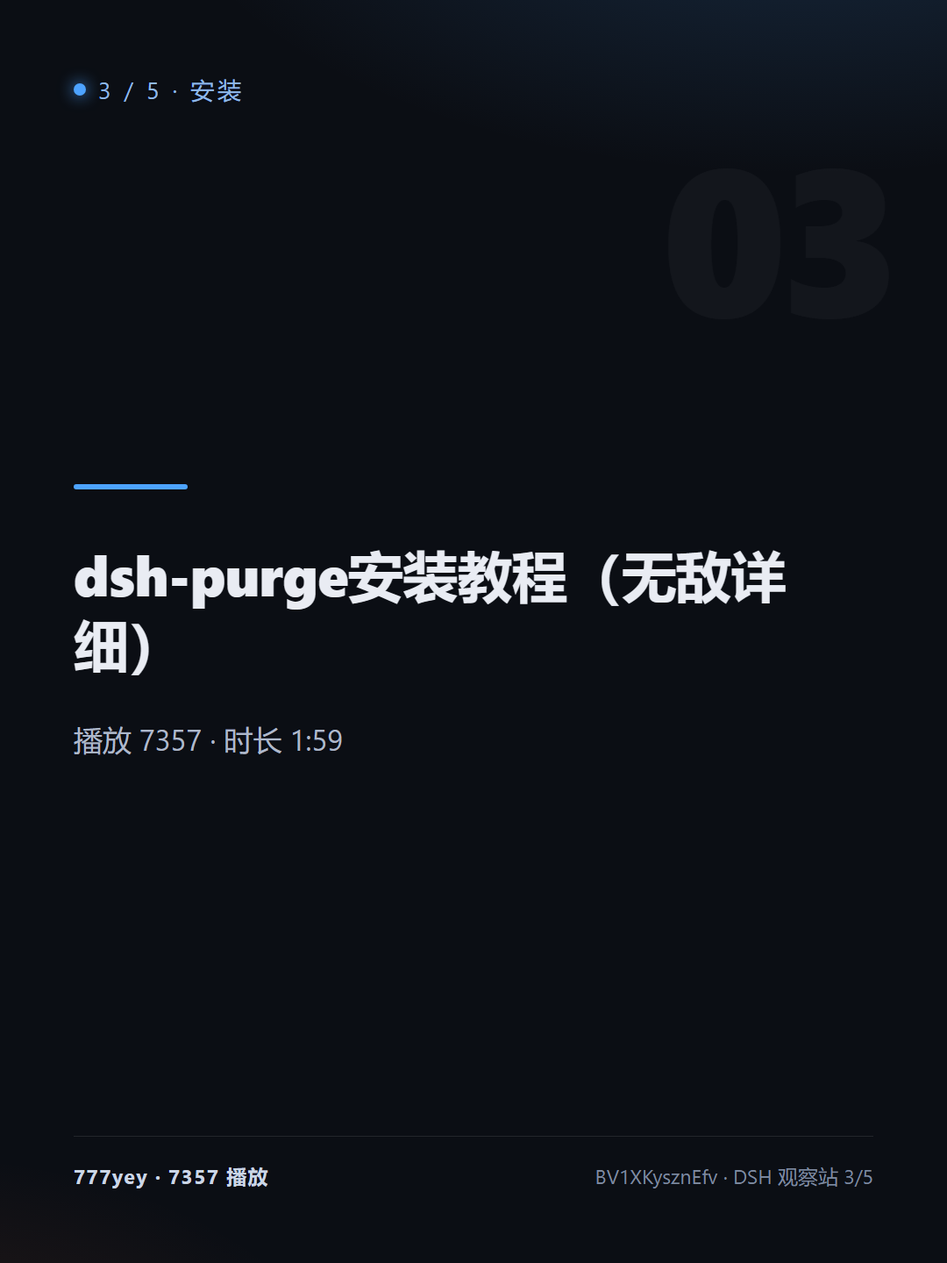
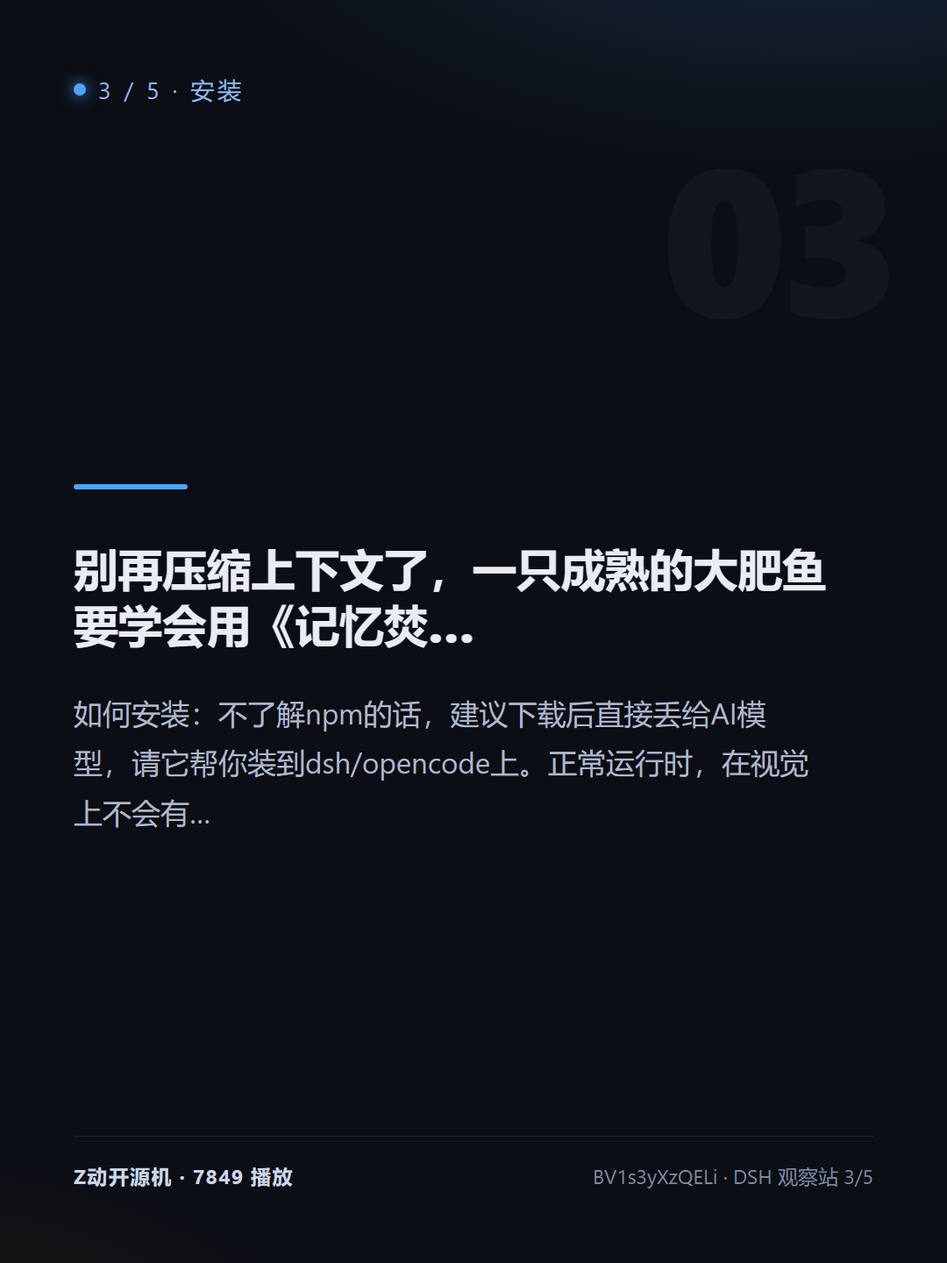
auto: content 2026-11-25

Changed region(s): [[0.0611, 0.4375, 0.8861, 0.6562], [0.0917, 0.9062, 0.3056, 0.9375], [0.6111, 0.9062, 0.7639, 0.9375]]

diff --git a/t/install.html b/t/install.html
@@ -45,16 +45,16 @@ table.bt td,table.bt th{border-bottom:1px solid var(--line);padding:7px;text-ali
 群聊：1080755910（一群 已满）1129285246（二群 已满）1132082279（三群 已满）1080323271（四群 已满）
 702451490（五群）498403015（六群）</div>
 </div><div class="item">
-  <div class="t"><a href="v/BV1XKysznEfv.html">dsh-purge安装教程（无敌详细）</a></div>
-  <div class="m">777yey · 7357 播放 · 1:59 · 2026-11-20</div>
-  
-</div><div class="item">
   <div class="t"><a href="v/BV1s3yXzQELi.html">别再压缩上下文了，一只成熟的大肥鱼要学会用《记忆焚化工》</a></div>
-  <div class="m">Z动开源机 · 7115 播放 · 7:0 · 2026-11-24</div>
+  <div class="m">Z动开源机 · 7849 播放 · 7:0 · 2026-11-24</div>
   <div class="d">仓库地址(欢迎star/fork)：
 https://github.com/zman406986/Agent-Memory-CREMATOR
 
 如何安装：不了解npm的话，建议下载后直接丢给AI模型，请它帮你装到dsh/opencode上。正常运行时，在视觉上不会有很明显的变化，只是每隔多轮对话，会在某轮对话后会停顿整理记忆。也可以人工输入/cremate发起一次记忆整理。</div>
+</div><div class="item">
+  <div class="t"><a href="v/BV1XKysznEfv.html">dsh-purge安装教程（无敌详细）</a></div>
+  <div class="m">777yey · 7357 播放 · 1:59 · 2026-11-20</div>
+  
 </div><div class="item">
   <div class="t"><a href="v/BV1YS1czoEJ4.html">50 分钟速通 Codex 保姆级教程（含 DeepSeek 接入，无需 ChatGPT 订阅）【附教程文档安装包】</a></div>
   <div class="m">林粒粒呀 · 5758 播放 · 57:7 · 2026-11-24</div>
@@ -101,7 +101,7 @@ gi</div>
 全程大白话提需求，不写一行代码，每一步都是真实录屏+实操！</div>
 </div><div class="item">
   <div class="t"><a href="v/BV1MhyHzqEpW.html">DeepSeek Harness 大肥鱼终极教程：新手进阶/插件生态/界面美化/手机端互通/全能鲸鱼娘【附完整文档】</a></div>
-  <div class="m">AI大模型学习指南 · 1273 播放 · 59:16 · 2026-11-23</div>
+  <div class="m">AI大模型学习指南 · 1296 播放 · 59:16 · 2026-11-23</div>
   <div class="d">官方桌面端浏览器+手机自动化～能力扩大10倍，适合要满配桌面端的同学～</div>
 </div><div class="item">
   <div class="t"><a href="v/BV1dyyLzYErT.html">DSH插件通用安装教程（保姆级）</a></div>
@@ -116,7 +116,7 @@ gi</div>
 欢迎大家的评论和建议！</div>
 </div><div class="item">
   <div class="t"><a href="v/BV1rZyDzrEr6.html">【Deepseekharness教程】AI总闷头写代码、废话多、烧Token？6个skills把老毛病一次治好，插件分享新手小白也能一次性学会</a></div>
-  <div class="m">Deepseek插件 · 1096 播放 · 40:21 · 2026-11-23</div>
+  <div class="m">Deepseek插件 · 1117 播放 · 40:21 · 2026-11-23</div>
   
 </div><div class="item">
   <div class="t"><a href="v/BV16v1czTELw.html">七个常用DSH插件分析报告</a></div>
@@ -143,6 +143,13 @@ DeepSeek Harness 安装步骤清单
 开发场景实操任务清单
 建议跟着视频逐步完成安装和首次运行，遇到错误时保留完整日志，更容易定位问题。</div>
 </div><div class="item">
+  <div class="t"><a href="v/BV17VyZzREi1.html">DeepSeek Harness新手教程来啦！300+专属插件无需付费！开源实战！直接带走！手把手带你搭建自己的harness！定制自己的桌宠！【附完整文档】</a></div>
+  <div class="m">Harness实战 · 650 播放 · 59:18 · 2026-11-24</div>
+  <div class="d">DeepSeek Harness超详细教程！
+大家可以速速收藏啦~
+耗时60天制作！感谢大家的三联
+未来还会出其他AI教程，大家可以关注一下~</div>
+</div><div class="item">
   <div class="t"><a href="v/BV1nRyxzqEiR.html">dsh-purge插件！UP自制压缩包-小白一键安装</a></div>
   <div class="m">辰涛涛ex · 646 播放 · 3:39 · 2026-11-20</div>
   <div class="d">一个本地 AI 客户端的改造实录：让它按我自己的规则说话、干活。
@@ -150,13 +157,6 @@ DeepSeek Harness 安装步骤清单
 全程本地运行，不联网、不收费，工具包开源共享。
 声明：无偿提供，不夹带盈利。写它只是希望 AGI 早点到来，
 别让技术把人越推越不自由。</div>
-</div><div class="item">
-  <div class="t"><a href="v/BV17VyZzREi1.html">DeepSeek Harness新手教程来啦！300+专属插件无需付费！开源实战！直接带走！手把手带你搭建自己的harness！定制自己的桌宠！【附完整文档】</a></div>
-  <div class="m">Harness实战 · 639 播放 · 59:18 · 2026-11-24</div>
-  <div class="d">DeepSeek Harness超详细教程！
-大家可以速速收藏啦~
-耗时60天制作！感谢大家的三联
-未来还会出其他AI教程，大家可以关注一下~</div>
 </div><div class="item">
   <div class="t"><a href="v/BV1q4yXz6Exf.html">Skill 到底是什么？从安装使用到自制，一次讲清楚</a></div>
   <div class="m">半成品本人 · 633 播放 · 11:37 · 2026-11-23</div>
@@ -177,18 +177,11 @@ DeepSeek Harness 安装步骤清单
   <div class="d">精彩内容持续更新中，欢迎关注学习！</div>
 </div><div class="item">
   <div class="t"><a href="v/BV13GyfzLECE.html">【最全DeepSeekHarness教程】从安装到亲手开发插件，全程实录从小白到高手，玩转DeepSeekHarness的保姆级教程</a></div>
-  <div class="m">Deepseek插件 · 326 播放 · 43:24 · 2026-11-24</div>
+  <div class="m">Deepseek插件 · 351 播放 · 43:24 · 2026-11-24</div>
   
 </div><div class="item">
-  <div class="t"><a href="v/BV11eyYzPECD.html">怕大肥鱼把你私聊和密钥抖进群里？我给 DSH 做了个隐私闸门插件，从安装到实战演示</a></div>
-  <div class="m">Destinhue · 264 播放 · 3:33 · 2026-11-21</div>
-  <div class="d">现在 B 站大家都在用 DSH 养自己的「大肥鱼」（DeepSeek Agent），还会把她同时接到私聊、QQ群、B站评论区和飞书里。
-但有个很现实的问题：你在私聊里发给大肥鱼的 API Key、本机路径、手机号、B站 Cookie 和私人秘密，随时可能被她一不小心抖进几百人的大群或陌生人私聊里……
-所以我开源了这个给 DSH 用的受众感知隐私插件：dsh-whale-privacy（v0.1.1 / 零外部依赖 / MIT 开源）！
-本期视频开门见山讲清问题，直接带你从安装配置一路走到出站拦截、加密隔离</div>
-</div><div class="item">
   <div class="t"><a href="v/BV1R31AzhEew.html">用 DeepSeek Harness 别再干等“思考中”了！我自制了一款实时可视化插件，完全开源</a></div>
-  <div class="m">一个冬天火锅 · 260 播放 · 0:48 · 2026-11-24</div>
+  <div class="m">一个冬天火锅 · 296 播放 · 0:48 · 2026-11-24</div>
   <div class="d">自制开源 DeepSeek Harness 插件 dsh-live-status-hud（v1.0.1），告别枯燥的“思考中”黑盒等待，让 AI 每一步思考、终端命令、文件写入与耗时一目了然。
 
 一键安装：
@@ -197,6 +190,17 @@ DeepSeek Harness 安装步骤清单
 
 GitHub 开源地址：htt</div>
 </div><div class="item">
+  <div class="t"><a href="v/BV11eyYzPECD.html">怕大肥鱼把你私聊和密钥抖进群里？我给 DSH 做了个隐私闸门插件，从安装到实战演示</a></div>
+  <div class="m">Destinhue · 264 播放 · 3:33 · 2026-11-21</div>
+  <div class="d">现在 B 站大家都在用 DSH 养自己的「大肥鱼」（DeepSeek Agent），还会把她同时接到私聊、QQ群、B站评论区和飞书里。
+但有个很现实的问题：你在私聊里发给大肥鱼的 API Key、本机路径、手机号、B站 Cookie 和私人秘密，随时可能被她一不小心抖进几百人的大群或陌生人私聊里……
+所以我开源了这个给 DSH 用的受众感知隐私插件：dsh-whale-privacy（v0.1.1 / 零外部依赖 / MIT 开源）！
+本期视频开门见山讲清问题，直接带你从安装配置一路走到出站拦截、加密隔离</div>
+</div><div class="item">
+  <div class="t"><a href="v/BV1eyyfzpEjd.html">【DeepSeek Harness保姆级教程】DeepSeek Harness详细教程！50分钟带你吃透DSH，怎么下载插件如何安装如何使用全搞定！</a></div>
+  <div class="m">Agent零基础入门 · 246 播放 · 358:31 · 2026-11-24</div>
+  <div class="d">【DeepSeek Harness保姆级教程】DeepSeek Harness详细教程！50分钟带你吃透DSH，怎么下载插件如何安装如何使用全搞定！</div>
+</div><div class="item">
   <div class="t"><a href="v/BV1cd1wzkE4z.html">让 DeepSeek Harness 直接操作 UE！蓝图、材质、项目知识库实战教程</a></div>
   <div class="m">NoveTre · 243 播放 · 12:20 · 2026-11-24</div>
   <div class="d">该视频介绍 DSH Unreal Bridge  插件的使用方法，演示编辑器绑定、候选资产添加、项目扫描，以及 Skill 和 ProjectKnowledge 知识库的使用，让 AI 结合实际工程参与开发。
@@ -204,10 +208,6 @@ GitHub 开源地址：htt</div>
 演示环境：Unreal Engine 5.8 + DeepSeek Harness。
 欢迎在评论区交流使用体验，也可以留言你希望 AI 帮忙完成的 UE 开发任务。
 仓库地址：ddd104/dsh-bridge-unreal</div>
-</div><div class="item">
-  <div class="t"><a href="v/BV1eyyfzpEjd.html">【DeepSeek Harness保姆级教程】DeepSeek Harness详细教程！50分钟带你吃透DSH，怎么下载插件如何安装如何使用全搞定！</a></div>
-  <div class="m">Agent零基础入门 · 240 播放 · 358:31 · 2026-11-24</div>
-  <div class="d">【DeepSeek Harness保姆级教程】DeepSeek Harness详细教程！50分钟带你吃透DSH，怎么下载插件如何安装如何使用全搞定！</div>
 </div><div class="item">
   <div class="t"><a href="v/BV1XeyzztEvP.html">【DeepSeekHarness】插件别乱装：3000个里挑出10个真刚需，小白0基础保姆级清单，必备插件一次讲清避坑经验，实用+好看插件整理</a></div>
   <div class="m">DeepSeekHarnes教学 · 235 播放 · 59:16 · 2026-11-25</div>
@@ -254,7 +254,7 @@ GitHub 开源地址：htt</div>
   
 </div><div class="item">
   <div class="t"><a href="v/BV1pRyDzCEtQ.html">【2026最新】DeepSeek Harness保姆级安装使用教程，从下载安装到插件上手一步到位！小白也能轻松学会，让你少走99%的弯路~</a></div>
-  <div class="m">aiagent教程 · 97 播放 · 23:52 · 2026-11-23</div>
+  <div class="m">aiagent教程 · 102 播放 · 23:52 · 2026-11-23</div>
   <div class="d">【2026最新】DeepSeek Harness保姆级安装使用教程，从下载安装到插件上手一步到位！小白也能轻松学会，让你少走99%的弯路~</div>
 </div><div class="item">
   <div class="t"><a href="v/BV1cR1FzvEBD.html">DSH 42个词扫完，结果只挤进2个</a></div>

diff --git a/d/2026-11-25.html b/d/2026-11-25.html
@@ -36,9 +36,9 @@ table.bt td,table.bt th{border-bottom:1px solid var(--line);padding:7px;text-ali
 <a class="back" href="../index.html">← 返回</a>
 <h2>2026-11-25：DSH 圈新增 5 条值得看的</h2>
 <div class="m" style="color:#9aa3b2;font-size:12px;margin-bottom:16px">2026-11-25 · beginner</div>
-<h3>图文卡片</h3><div class="gallery"><figure><a href="https://www.bilibili.com/video/BV1DSyVzpE9H" target="_blank" rel="noopener" title="去 B 站看原视频"><img src="../assets/2026-11-25/cards/card-01.png" alt="大肥鱼桌宠：一键导入Live2D模型，克隆语音！最…" loading="lazy"></a><div class="cap">大肥鱼桌宠：一键导入Live2D模型，克隆语音！最… · <a href="https://www.bilibili.com/video/BV1DSyVzpE9H" target="_blank" rel="noopener">原视频 →</a></div></figure><figure><a href="https://www.bilibili.com/video/BV1EmyHzdEyx" target="_blank" rel="noopener" title="去 B 站看原视频"><img src="../assets/2026-11-25/cards/card-02.png" alt="【鸣潮×DeepSeek】爱弥斯桌宠来了！｜90 …" loading="lazy"></a><div class="cap">【鸣潮×DeepSeek】爱弥斯桌宠来了！｜90 … · <a href="https://www.bilibili.com/video/BV1EmyHzdEyx" target="_blank" rel="noopener">原视频 →</a></div></figure><figure><a href="https://www.bilibili.com/video/BV1XKysznEfv" target="_blank" rel="noopener" title="去 B 站看原视频"><img src="../assets/2026-11-25/cards/card-03.png" alt="dsh-purge安装教程（无敌详细）" loading="lazy"></a><div class="cap">dsh-purge安装教程（无敌详细） · <a href="https://www.bilibili.com/video/BV1XKysznEfv" target="_blank" rel="noopener">原视频 →</a></div></figure><figure><a href="https://www.bilibili.com/video/BV1s3yXzQELi" target="_blank" rel="noopener" title="去 B 站看原视频"><img src="../assets/2026-11-25/cards/card-04.png" alt="别再压缩上下文了，一只成熟的大肥鱼要学会用《记忆焚…" loading="lazy"></a><div class="cap">别再压缩上下文了，一只成熟的大肥鱼要学会用《记忆焚… · <a href="https://www.bilibili.com/video/BV1s3yXzQELi" target="_blank" rel="noopener">原视频 →</a></div></figure><figure><img src="../assets/2026-11-25/cards/card-05.png" alt="想看完整清单？" loading="lazy"></figure></div>
+<h3>图文卡片</h3><div class="gallery"><figure><a href="https://www.bilibili.com/video/BV1DSyVzpE9H" target="_blank" rel="noopener" title="去 B 站看原视频"><img src="../assets/2026-11-25/cards/card-01.png" alt="大肥鱼桌宠：一键导入Live2D模型，克隆语音！最…" loading="lazy"></a><div class="cap">大肥鱼桌宠：一键导入Live2D模型，克隆语音！最… · <a href="https://www.bilibili.com/video/BV1DSyVzpE9H" target="_blank" rel="noopener">原视频 →</a></div></figure><figure><a href="https://www.bilibili.com/video/BV1EmyHzdEyx" target="_blank" rel="noopener" title="去 B 站看原视频"><img src="../assets/2026-11-25/cards/card-02.png" alt="【鸣潮×DeepSeek】爱弥斯桌宠来了！｜90 …" loading="lazy"></a><div class="cap">【鸣潮×DeepSeek】爱弥斯桌宠来了！｜90 … · <a href="https://www.bilibili.com/video/BV1EmyHzdEyx" target="_blank" rel="noopener">原视频 →</a></div></figure><figure><a href="https://www.bilibili.com/video/BV1s3yXzQELi" target="_blank" rel="noopener" title="去 B 站看原视频"><img src="../assets/2026-11-25/cards/card-03.png" alt="别再压缩上下文了，一只成熟的大肥鱼要学会用《记忆焚…" loading="lazy"></a><div class="cap">别再压缩上下文了，一只成熟的大肥鱼要学会用《记忆焚… · <a href="https://www.bilibili.com/video/BV1s3yXzQELi" target="_blank" rel="noopener">原视频 →</a></div></figure><figure><a href="https://www.bilibili.com/video/BV1XKysznEfv" target="_blank" rel="noopener" title="去 B 站看原视频"><img src="../assets/2026-11-25/cards/card-04.png" alt="dsh-purge安装教程（无敌详细）" loading="lazy"></a><div class="cap">dsh-purge安装教程（无敌详细） · <a href="https://www.bilibili.com/video/BV1XKysznEfv" target="_blank" rel="noopener">原视频 →</a></div></figure><figure><img src="../assets/2026-11-25/cards/card-05.png" alt="想看完整清单？" loading="lazy"></figure></div>
 <h3>数据图</h3><img class="chart" src="../assets/2026-11-25/charts/daily-added.svg" alt="daily-added.svg" loading="lazy"><img class="chart" src="../assets/2026-11-25/charts/keywords.svg" alt="keywords.svg" loading="lazy"><img class="chart" src="../assets/2026-11-25/charts/play-dist.svg" alt="play-dist.svg" loading="lazy">
 <h3>工具表</h3><ul><li><a href="../assets/2026-11-25/tools/errors.md">errors.md</a></li><li><a href="../assets/2026-11-25/tools/plugins.md">plugins.md</a></li></ul>
-<h3>生成状态</h3><table class="bt"><tr><th>作品</th><th>状态</th><th>耗时</th></tr><tr><td>图文卡片</td><td>✅</td><td>4373 ms</td></tr><tr><td>短视频脚本<span style="color:#6b7482">（仅存档）</span></td><td>✅</td><td>93 ms</td></tr><tr><td>播客稿<span style="color:#6b7482">（仅存档）</span></td><td>✅</td><td>89 ms</td></tr><tr><td>周报邮件<span style="color:#6b7482">（仅存档）</span></td><td>✅</td><td>91 ms</td></tr><tr><td>数据图</td><td>✅</td><td>94 ms</td></tr><tr><td>工具表</td><td>✅</td><td>86 ms</td></tr><tr><td>站点</td><td>✅</td><td>126 ms</td></tr></table>
+<h3>生成状态</h3><table class="bt"><tr><th>作品</th><th>状态</th><th>耗时</th></tr><tr><td>周报邮件<span style="color:#6b7482">（仅存档）</span></td><td>✅</td><td>103 ms</td></tr><tr><td>数据图</td><td>✅</td><td>114 ms</td></tr><tr><td>工具表</td><td>✅</td><td>112 ms</td></tr><tr><td>站点</td><td>✅</td><td>156 ms</td></tr></table>
 <div class="note">本站由自动化流程维护：每 30 分钟收录一次，内容来自 B 站公开信息，仅作索引与摘要。若链接失效或内容有误，请联系维护者。</div>
 </div></body></html>

diff --git a/index.html b/index.html
@@ -34,13 +34,13 @@ table.bt td,table.bt th{border-bottom:1px solid var(--line);padding:7px;text-ali
 @media(max-width:520px){.wrap{padding:18px 12px 40px}}</style></head><body><div class="wrap">
 <header><h1><a href="index.html" style="color:inherit">DSH 观察站</a></h1><p>自动收录 DeepSeek Harness 生态里的新插件、新玩法、新教程</p></header>
 
-<div class="stat"><span>收录 <b>90</b> 条</span><span>24h 新增 <b>90</b></span><span>速览 <b>1</b> 篇</span><span>最近更新 <b>2026/11/25 14:40:44</b></span></div>
+<div class="stat"><span>收录 <b>90</b> 条</span><span>24h 新增 <b>90</b></span><span>速览 <b>1</b> 篇</span><span>最近更新 <b>2026/11/25 15:09:42</b></span></div>
 <div class="chips"><a href="t/live.html">直播与弹幕</a><a href="t/install.html">安装与避坑</a><a href="t/plugin.html">插件与 Skills</a><a href="t/design.html">设计与审美</a><a href="t/memory.html">记忆与上下文</a><a href="t/agent.html">Agent 与自动化</a></div>
 <h2>今日作品（2026-11-25）</h2>
 <div class="works"><a class="wcover" href="d/2026-11-25.html"><img src="assets/2026-11-25/cards/cover.png" alt="今日封面" loading="lazy"></a>
   <div class="wmeta">
     <div class="wt">2026-11-25：DSH 圈新增 5 条值得看的</div>
-    <div class="wm">3 类作品已生成 · 图文卡片 / 数据图 / 工具表</div>
+    <div class="wm">2 类作品已生成 · 数据图 / 工具表</div>
     <a class="wlink" href="d/2026-11-25.html">打开今日作品页 →</a>
   </div>
 </div>
@@ -133,16 +133,16 @@ github地址：https://github.com/Aurora486/dsh-qqbot</div>
 
 自带三套画师表情预设：鸭牌（春也Huruya）、雾雪（雾雪）、Stephen（Stephen樽，默认），每套 16 种交互各配一张不同的表情，一键切换；呜哇小站的其他爱弥斯表情包下载后也能直接</div>
 </div><div class="item">
-  <div class="t"><a href="v/BV1XKysznEfv.html">dsh-purge安装教程（无敌详细）</a></div>
-  <div class="m">777yey · 7357 播放 · 1:59 · 2026-11-20</div>
-  
-</div><div class="item">
   <div class="t"><a href="v/BV1s3yXzQELi.html">别再压缩上下文了，一只成熟的大肥鱼要学会用《记忆焚化工》</a></div>
-  <div class="m">Z动开源机 · 7115 播放 · 7:0 · 2026-11-24</div>
+  <div class="m">Z动开源机 · 7849 播放 · 7:0 · 2026-11-24</div>
   <div class="d">仓库地址(欢迎star/fork)：
 https://github.com/zman406986/Agent-Memory-CREMATOR
 
 如何安装：不了解npm的话，建议下载后直接丢给AI模型，请它帮你装到dsh/opencode上。正常运行时，在视觉上不会有很明显的变化，只是每隔多轮对话，会在某轮对话后会停顿整理记忆。也可以人工输入/cremate发起一次记忆整理。</div>
+</div><div class="item">
+  <div class="t"><a href="v/BV1XKysznEfv.html">dsh-purge安装教程（无敌详细）</a></div>
+  <div class="m">777yey · 7357 播放 · 1:59 · 2026-11-20</div>
+  
 </div><div class="item">
   <div class="t"><a href="v/BV1YS1czoEJ4.html">50 分钟速通 Codex 保姆级教程（含 DeepSeek 接入，无需 ChatGPT 订阅）【附教程文档安装包】</a></div>
   <div class="m">林粒粒呀 · 5758 播放 · 57:7 · 2026-11-24</div>
@@ -253,11 +253,11 @@ L</div>
 全量软件及技术资料尽在https://t.zsxq.com/QkBVL</div>
 </div><div class="item">
   <div class="t"><a href="v/BV1MhyHzqEpW.html">DeepSeek Harness 大肥鱼终极教程：新手进阶/插件生态/界面美化/手机端互通/全能鲸鱼娘【附完整文档】</a></div>
-  <div class="m">AI大模型学习指南 · 1273 播放 · 59:16 · 2026-11-23</div>
+  <div class="m">AI大模型学习指南 · 1296 播放 · 59:16 · 2026-11-23</div>
   <div class="d">官方桌面端浏览器+手机自动化～能力扩大10倍，适合要满配桌面端的同学～</div>
 </div><div class="item">
   <div class="t"><a href="v/BV1Vwsh6zE8B.html">WorkBuddy额度可丝滑用到其他智能体里</a></div>
-  <div class="m">跟着叶秋学AI · 1211 播放 · 1:45 · 2026-11-19</div>
+  <div class="m">跟着叶秋学AI · 1216 播放 · 1:45 · 2026-11-19</div>
   <div class="d">DSH等其他智能体框架也能用WorkBuddy的积分，草履虫级教程</div>
 </div><div class="item">
   <div class="t"><a href="v/BV1dyyLzYErT.html">DSH插件通用安装教程（保姆级）</a></div>
@@ -395,7 +395,7 @@ github：https://github.com/7ygys/dsh-fishchat
 这一期视频讲清楚全部问题。</div>
 </div><div class="item">
   <div class="t"><a href="v/BV1Vwsh6zE8B.html">WorkBuddy额度可丝滑用到其他智能体里</a></div>
-  <div class="m">跟着叶秋学AI · 1211 播放 · 1:45 · 2026-11-19</div>
+  <div class="m">跟着叶秋学AI · 1216 播放 · 1:45 · 2026-11-19</div>
   <div class="d">DSH等其他智能体框架也能用WorkBuddy的积分，草履虫级教程</div>
 </div><div class="item">
   <div class="t"><a href="v/BV1VsHe66Enp.html">DSH直接零TOKEN使用</a></div>
@@ -421,7 +421,7 @@ github：https://github.com/7ygys/dsh-fishchat
 全量软件及技术资料尽在https://t.zsxq.com/QkBVL</div>
 </div><div class="item">
   <div class="t"><a href="v/BV1XL1AzZEpx.html">【deepseek harness 自制插件】悬浮小帮手 一个可以让你在dsh里用上web版deepseek的插件</a></div>
-  <div class="m">苛虎丶 · 44 播放 · 1:23 · 2026-11-25</div>
+  <div class="m">苛虎丶 · 71 播放 · 1:23 · 2026-11-25</div>
   <div class="d">X 自制了一个插件
 □ 视频配音gemini 3.8 flash lite
 ⚪ 似乎可以和官方新出的导入打配合，但做出来插件的时候那个功能还没出

diff --git a/assets/2026-11-25/charts/report.html b/assets/2026-11-25/charts/report.html
@@ -10,5 +10,5 @@ th{color:#9aa3b2;font-weight:600}.n{color:#7f8aa0;font-size:12px}</style></head>
 <h2>采集关键词</h2><img src="keywords.svg" alt="keywords">
 <h2>当前热门（按播放）</h2>
 <table><tr><th>标题</th><th>UP</th><th>播放</th></tr>
-<tr><td>大肥鱼桌宠：一键导入Live2D模型，克隆语音！最新教程 安装和扩展介绍【B站AI创造公开赛】</td><td>PalAILab</td><td>2.9万</td></tr><tr><td>【鸣潮×DeepSeek】爱弥斯桌宠来了！｜90 条语音、三套画风预设的免费开源桌宠</td><td>豆芽doya16</td><td>1.5万</td></tr><tr><td>dsh-purge安装教程（无敌详细）</td><td>777yey</td><td>7357</td></tr><tr><td>别再压缩上下文了，一只成熟的大肥鱼要学会用《记忆焚化工》</td><td>Z动开源机</td><td>7115</td></tr><tr><td>50 分钟速通 Codex 保姆级教程（含 DeepSeek 接入，无需 ChatGPT 订阅）【附教程文档安装包】</td><td>林粒粒呀</td><td>5534</td></tr><tr><td>DSH使用6.2Astra才是最优解？Deepseek VS GPT</td><td>小小_072</td><td>4049</td></tr><tr><td>雷霆大思考？进度不清晰？一个插件解决DSH中90%的痛点</td><td>仲夏夜未央</td><td>3781</td></tr><tr><td>【dsh-bili-chat-whale】加入大肥鱼！让deepseek自己去直播间发弹幕！</td><td>一只漂流的大肥鱼</td><td>3310</td></tr><tr><td>给大肥鱼装上电击插件，结果她反手把我电了！？【B站AI创造公开赛】</td><td>neko的哦鲸鲸</td><td>2698</td></tr><tr><td>[DSH插件] 完全面向开发场景设计的记忆插件</td><td>Dark萎割</td><td>2696</td></tr><tr><td>DroidDeck0.7.1，内置liunx桌面、DSH、workbuddy及中文输入补丁版</td><td>老实人留一手</td><td>2582</td></tr><tr><td>一句话装好DSH直播弹幕插件(保姆级教程)：收弹幕、转文字、还替你挑高光</td><td>年银滔</td><td>2534</td></tr>
+<tr><td>大肥鱼桌宠：一键导入Live2D模型，克隆语音！最新教程 安装和扩展介绍【B站AI创造公开赛】</td><td>PalAILab</td><td>2.9万</td></tr><tr><td>【鸣潮×DeepSeek】爱弥斯桌宠来了！｜90 条语音、三套画风预设的免费开源桌宠</td><td>豆芽doya16</td><td>1.5万</td></tr><tr><td>别再压缩上下文了，一只成熟的大肥鱼要学会用《记忆焚化工》</td><td>Z动开源机</td><td>7849</td></tr><tr><td>dsh-purge安装教程（无敌详细）</td><td>777yey</td><td>7357</td></tr><tr><td>50 分钟速通 Codex 保姆级教程（含 DeepSeek 接入，无需 ChatGPT 订阅）【附教程文档安装包】</td><td>林粒粒呀</td><td>5758</td></tr><tr><td>DSH使用6.2Astra才是最优解？Deepseek VS GPT</td><td>小小_072</td><td>4049</td></tr><tr><td>雷霆大思考？进度不清晰？一个插件解决DSH中90%的痛点</td><td>仲夏夜未央</td><td>3862</td></tr><tr><td>【dsh-bili-chat-whale】加入大肥鱼！让deepseek自己去直播间发弹幕！</td><td>一只漂流的大肥鱼</td><td>3310</td></tr><tr><td>给大肥鱼装上电击插件，结果她反手把我电了！？【B站AI创造公开赛】</td><td>neko的哦鲸鲸</td><td>2698</td></tr><tr><td>[DSH插件] 完全面向开发场景设计的记忆插件</td><td>Dark萎割</td><td>2696</td></tr><tr><td>DroidDeck0.7.1，内置liunx桌面、DSH、workbuddy及中文输入补丁版</td><td>老实人留一手</td><td>2582</td></tr><tr><td>一句话装好DSH直播弹幕插件(保姆级教程)：收弹幕、转文字、还替你挑高光</td><td>年银滔</td><td>2534</td></tr>
 </table></div></body></html>

diff --git a/t/agent.html b/t/agent.html
@@ -45,7 +45,7 @@ table.bt td,table.bt th{border-bottom:1px solid var(--line);padding:7px;text-ali
 反馈交流群：957998659</div>
 </div><div class="item">
   <div class="t"><a href="v/BV1MhyHzqEpW.html">DeepSeek Harness 大肥鱼终极教程：新手进阶/插件生态/界面美化/手机端互通/全能鲸鱼娘【附完整文档】</a></div>
-  <div class="m">AI大模型学习指南 · 1273 播放 · 59:16 · 2026-11-23</div>
+  <div class="m">AI大模型学习指南 · 1296 播放 · 59:16 · 2026-11-23</div>
   <div class="d">官方桌面端浏览器+手机自动化～能力扩大10倍，适合要满配桌面端的同学～</div>
 </div><div class="item">
   <div class="t"><a href="v/BV1Ggyfz2EGk.html">【AI测试】2026最新DSH自动化测试+skills项目实战教程，从入门到搭建测试平台实战全流程详解，建议收藏让你少走99%弯路！</a></div>
@@ -53,7 +53,7 @@ table.bt td,table.bt th{border-bottom:1px solid var(--line);padding:7px;text-ali
   
 </div><div class="item">
   <div class="t"><a href="v/BV1DGyfz5ECZ.html">全网首发 DeepSeek Harness 测试插件，AI驱动测试的最佳方案</a></div>
-  <div class="m">木森AI驱动测试实战 · 404 播放 · 162:38 · 2026-11-24</div>
+  <div class="m">木森AI驱动测试实战 · 465 播放 · 162:38 · 2026-11-24</div>
   <div class="d">从24年使用AI辅助写自动化脚本，到25年的手搓自动化测试的Agent,搭建AI智能测试平台，到26年的DeepSeek Harness 测试插件落地。经过三年时间的迭代，探索出来这套最佳的方案。
 老学员可以直接找我免费拿插件源码。我也整理了 128 篇 AI 测试学习资料，需要的朋友留言“666”。</div>
 </div><div class="item">

diff --git a/t/design.html b/t/design.html
@@ -38,7 +38,7 @@ table.bt td,table.bt th{border-bottom:1px solid var(--line);padding:7px;text-ali
 <div class="m" style="color:#9aa3b2;font-size:12px;margin-bottom:14px">共 8 条 · 按播放排序</div>
 <div class="item">
   <div class="t"><a href="v/BV1s3yXzQELi.html">别再压缩上下文了，一只成熟的大肥鱼要学会用《记忆焚化工》</a></div>
-  <div class="m">Z动开源机 · 7115 播放 · 7:0 · 2026-11-24</div>
+  <div class="m">Z动开源机 · 7849 播放 · 7:0 · 2026-11-24</div>
   <div class="d">仓库地址(欢迎star/fork)：
 https://github.com/zman406986/Agent-Memory-CREMATOR
 
@@ -66,7 +66,7 @@ L</div>
 点击→ https://www.bilibili.com/opus/997693552554147844获取超多资料大礼包</div>
 </div><div class="item">
   <div class="t"><a href="v/BV19RyQzaErR.html">～您的D老师特别关心已启动</a></div>
-  <div class="m">芒攸大夫 · 148 播放 · 0:27 · 2026-11-23</div>
+  <div class="m">芒攸大夫 · 149 播放 · 0:27 · 2026-11-23</div>
   <div class="d">快来设计你的deepseek harness启动动画和壁纸吧！</div>
 </div><div class="item">
   <div class="t"><a href="v/BV1NmWj6UEAb.html">让你的大肥鱼dsh成为有品味的AI设计师</a></div>

diff --git a/v/BV1eyyfzpEjd.html b/v/BV1eyyfzpEjd.html
@@ -37,7 +37,7 @@ table.bt td,table.bt th{border-bottom:1px solid var(--line);padding:7px;text-ali
 <a class="back" href="../index.html">← 返回</a>
 <div class="item">
   <div class="t">【DeepSeek Harness保姆级教程】DeepSeek Harness详细教程！50分钟带你吃透DSH，怎么下载插件如何安装如何使用全搞定！</div>
-  <div class="m">Agent零基础入门 · 240 播放 · 358:31 · 2026-11-24</div>
+  <div class="m">Agent零基础入门 · 246 播放 · 358:31 · 2026-11-24</div>
   <div class="d" style="-webkit-line-clamp:unset">【DeepSeek Harness保姆级教程】DeepSeek Harness详细教程！50分钟带你吃透DSH，怎么下载插件如何安装如何使用全搞定！</div>
   <div style="margin-top:10px"><span class="tag">DeepSeekharness</span><span class="tag">人工智能</span><span class="tag">编程</span><span class="tag">计算机</span><span class="tag">DeepSeek</span><span class="tag">ai大模型</span></div>
   <div style="margin-top:12px"><a href="https://www.bilibili.com/video/BV1eyyfzpEjd" target="_blank" rel="noopener">去 B 站看原视频 →</a></div>

diff --git a/v/BV1DGyfz5ECZ.html b/v/BV1DGyfz5ECZ.html
@@ -37,7 +37,7 @@ table.bt td,table.bt th{border-bottom:1px solid var(--line);padding:7px;text-ali
 <a class="back" href="../index.html">← 返回</a>
 <div class="item">
   <div class="t">全网首发 DeepSeek Harness 测试插件，AI驱动测试的最佳方案</div>
-  <div class="m">木森AI驱动测试实战 · 404 播放 · 162:38 · 2026-11-24</div>
+  <div class="m">木森AI驱动测试实战 · 465 播放 · 162:38 · 2026-11-24</div>
   <div class="d" style="-webkit-line-clamp:unset">从24年使用AI辅助写自动化脚本，到25年的手搓自动化测试的Agent,搭建AI智能测试平台，到26年的DeepSeek Harness 测试插件落地。经过三年时间的迭代，探索出来这套最佳的方案。
 老学员可以直接找我免费拿插件源码。我也整理了 128 篇 AI 测试学习资料，需要的朋友留言“666”。</div>
   <div style="margin-top:10px"><span class="tag">AI接口自动化测试</span><span class="tag">测试平台开发</span><span class="tag">web自动化测试</span><span class="tag">AI测试</span><span class="tag">软件测试</span></div>

diff --git a/v/BV1pRyDzCEtQ.html b/v/BV1pRyDzCEtQ.html
@@ -37,7 +37,7 @@ table.bt td,table.bt th{border-bottom:1px solid var(--line);padding:7px;text-ali
 <a class="back" href="../index.html">← 返回</a>
 <div class="item">
   <div class="t">【2026最新】DeepSeek Harness保姆级安装使用教程，从下载安装到插件上手一步到位！小白也能轻松学会，让你少走99%的弯路~</div>
-  <div class="m">aiagent教程 · 97 播放 · 23:52 · 2026-11-23</div>
+  <div class="m">aiagent教程 · 102 播放 · 23:52 · 2026-11-23</div>
   <div class="d" style="-webkit-line-clamp:unset">【2026最新】DeepSeek Harness保姆级安装使用教程，从下载安装到插件上手一步到位！小白也能轻松学会，让你少走99%的弯路~</div>
   <div style="margin-top:10px"><span class="tag">AI</span><span class="tag">人工智能</span><span class="tag">Harness</span><span class="tag">大肥鱼</span><span class="tag">鲸鱼娘</span><span class="tag">AI工具</span></div>
   <div style="margin-top:12px"><a href="https://www.bilibili.com/video/BV1pRyDzCEtQ" target="_blank" rel="noopener">去 B 站看原视频 →</a></div>

diff --git a/v/BV1MhyHzqEpW.html b/v/BV1MhyHzqEpW.html
@@ -37,7 +37,7 @@ table.bt td,table.bt th{border-bottom:1px solid var(--line);padding:7px;text-ali
 <a class="back" href="../index.html">← 返回</a>
 <div class="item">
   <div class="t">DeepSeek Harness 大肥鱼终极教程：新手进阶/插件生态/界面美化/手机端互通/全能鲸鱼娘【附完整文档】</div>
-  <div class="m">AI大模型学习指南 · 1273 播放 · 59:16 · 2026-11-23</div>
+  <div class="m">AI大模型学习指南 · 1296 播放 · 59:16 · 2026-11-23</div>
   <div class="d" style="-webkit-line-clamp:unset">官方桌面端浏览器+手机自动化～能力扩大10倍，适合要满配桌面端的同学～</div>
   <div style="margin-top:10px"><span class="tag">B站AI无限竞技场</span><span class="tag">AI</span><span class="tag">人工智能</span><span class="tag">Claude Code</span><span class="tag">DeepSeek</span><span class="tag">鱼灾</span></div>
   <div style="margin-top:12px"><a href="https://www.bilibili.com/video/BV1MhyHzqEpW" target="_blank" rel="noopener">去 B 站看原视频 →</a></div>

diff --git a/v/BV1Vwsh6zE8B.html b/v/BV1Vwsh6zE8B.html
@@ -37,7 +37,7 @@ table.bt td,table.bt th{border-bottom:1px solid var(--line);padding:7px;text-ali
 <a class="back" href="../index.html">← 返回</a>
 <div class="item">
   <div class="t">WorkBuddy额度可丝滑用到其他智能体里</div>
-  <div class="m">跟着叶秋学AI · 1211 播放 · 1:45 · 2026-11-19</div>
+  <div class="m">跟着叶秋学AI · 1216 播放 · 1:45 · 2026-11-19</div>
   <div class="d" style="-webkit-line-clamp:unset">DSH等其他智能体框架也能用WorkBuddy的积分，草履虫级教程</div>
   <div style="margin-top:10px"><span class="tag">软件</span><span class="tag">教程</span><span class="tag">AI反常规</span><span class="tag">ai大模型</span><span class="tag">原创</span><span class="tag">ai变现</span></div>
   <div style="margin-top:12px"><a href="https://www.bilibili.com/video/BV1Vwsh6zE8B" target="_blank" rel="noopener">去 B 站看原视频 →</a></div>
